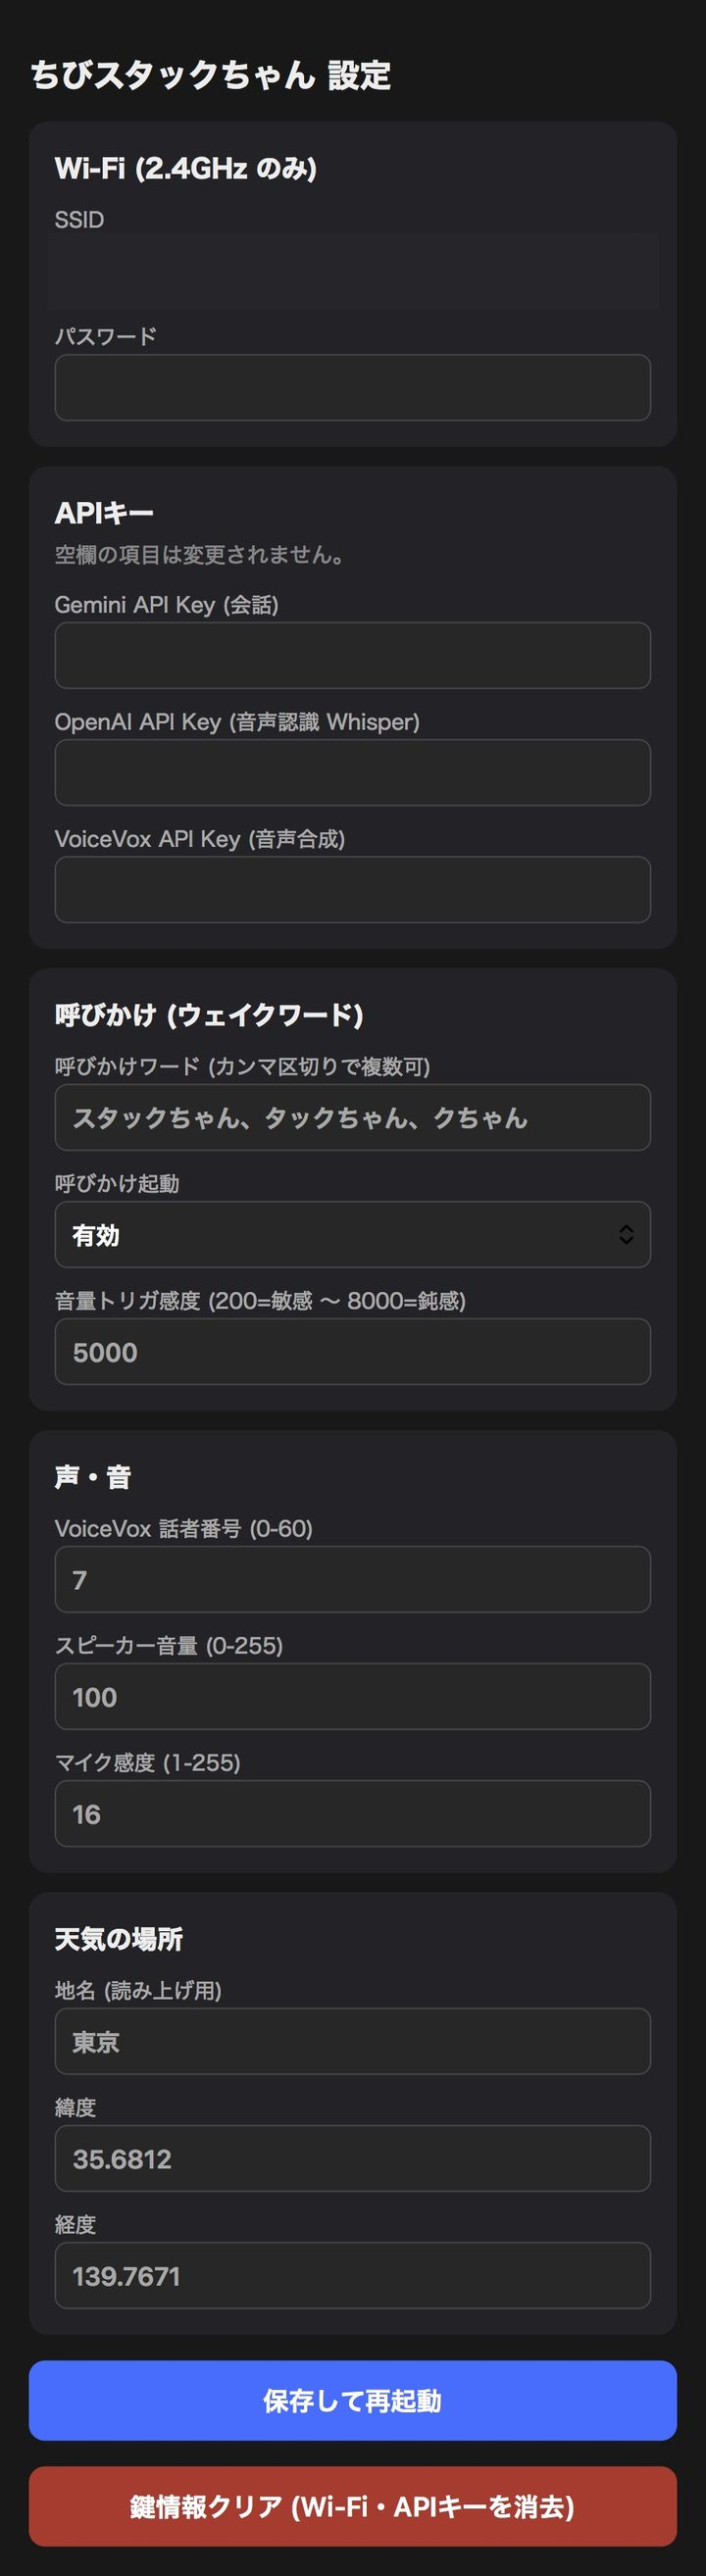
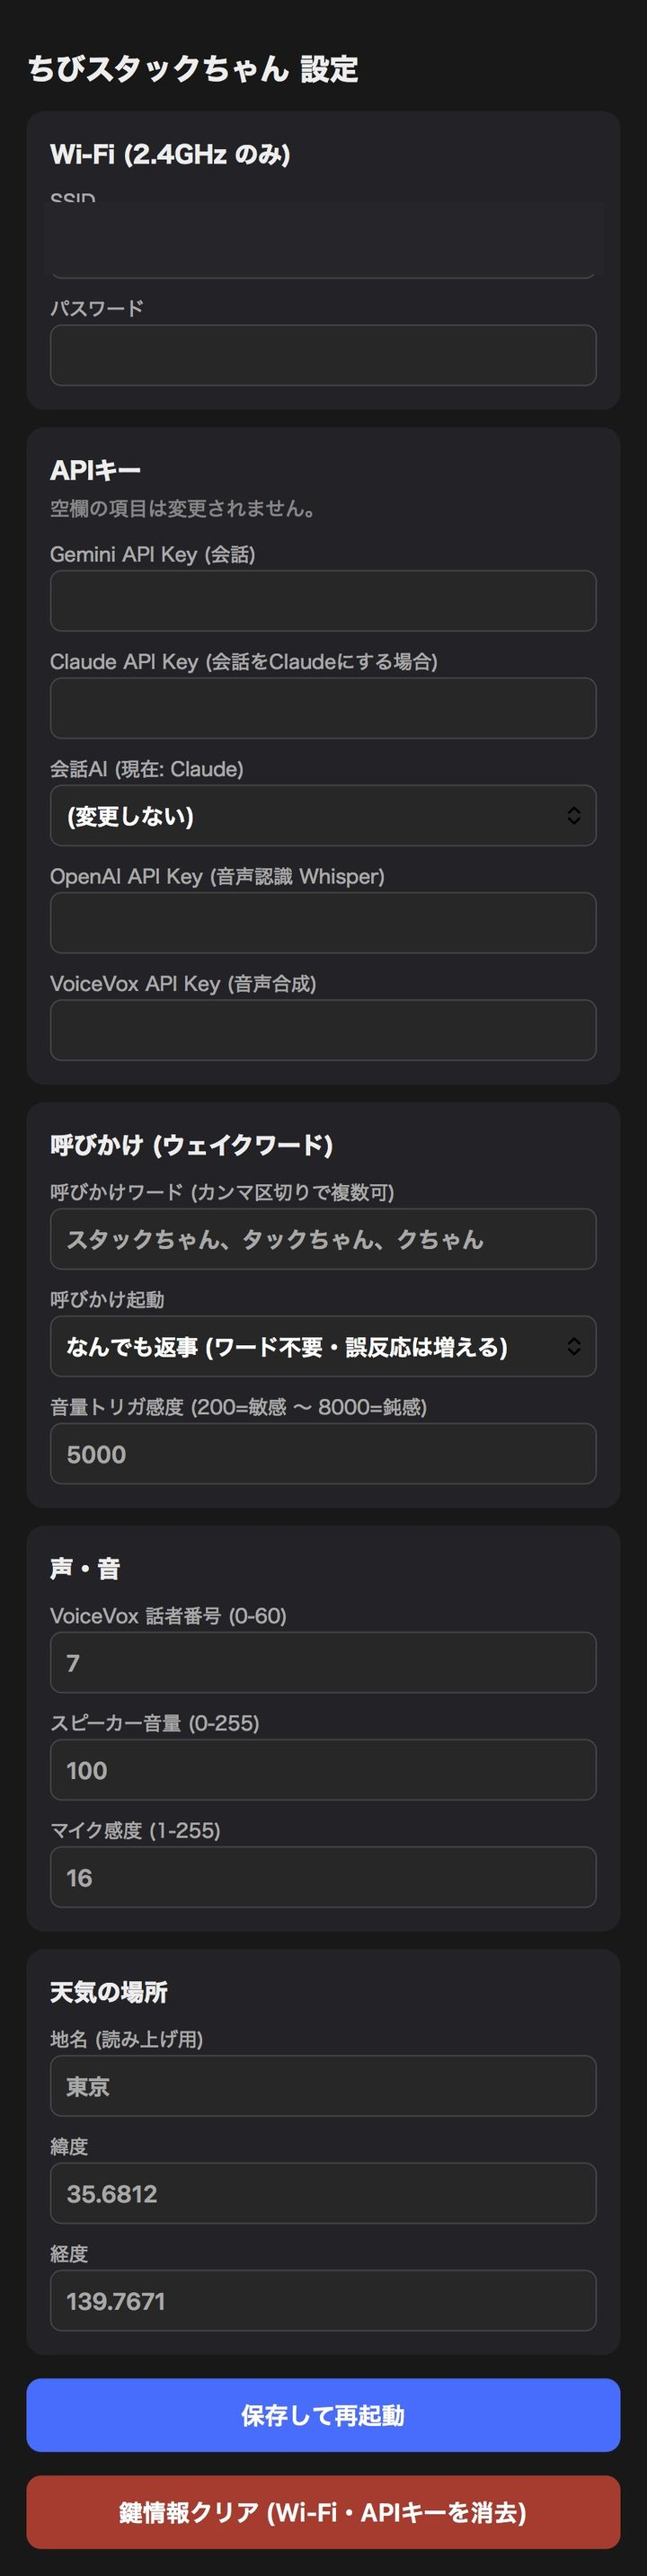
Claude API対応 + 呼びかけ3モード化 + 公開準備 (LICENSE/クレジット整備)
- 会話AIをGemini/Claudeで切り替え可能に (Web UIから設定、モデルはclaude-haiku-4-5)
- api.anthropic.com用ルート証明書を追加 (GTS Root R4/R1、ESP32は中間証明書を
  補完できないためGemini用GlobalSignでは検証不可だった)
- 呼びかけモードを3択に: 呼びかけワード / なんでも返事(ワード不要) / 無効
  (語頭の呼びかけワードが拾えず無視される問題への対策)
- LICENSE追加 (自作部分MIT)、READMEのクレジットを原作者・ライセンス明記の表に刷新
  (Stack-chan/ししかわさん、AI_StackChan2/robo8080さん、ESP8266AudioのGPL-3.0注記)
- READMEにClaude APIセットアップ手順と料金目安を追加、設定画面スクショ更新

diff --git a/src/main.cpp b/src/main.cpp
@@ -31,6 +31,7 @@
 #include <WiFiClientSecure.h>
 #include "rootCACertificate.h"
 #include "rootCAgoogle.h"
+#include "rootCAanthropic.h"
 #include <ArduinoJson.h>
 #include <WebServer.h>
 #include <ESPmDNS.h>
@@ -70,6 +71,8 @@ WebServer server(80);
 
 //---------------------------------------------
 String GEMINI_API_KEY = "";    // Google Gemini (LLM / conversation)
+String CLAUDE_API_KEY = "";    // Anthropic Claude (会話をClaudeにする場合)
+String AI_PROVIDER = "gemini"; // 会話AI: "gemini" | "claude" (Web UIで切り替え)
 String OPENAI_API_KEY = "";    // OpenAI (Whisper speech-to-text)
 String VOICEVOX_API_KEY = "";  // VoiceVox (text-to-speech)
 String CFG_WIFI_SSID = "";
@@ -77,7 +80,9 @@ String CFG_WIFI_PASS = "";
 
 // 呼びかけ (ウェイクワード)。カンマ/読点区切りで複数登録可。
 String WAKE_PHRASE = "スタックちゃん";
-bool   wake_enable = true;
+// 呼びかけモード: 0=無効(画面タッチのみ) 1=呼びかけワードで起動 2=なんでも返事(ワード不要)
+uint8_t wake_mode = 1;
+bool   wake_enable = true;  // wake_mode != 0 の派生値
 int    vad_threshold = 1500;   // 音量トリガのしきい値 (int16 peak, 200-8000)
 
 // 天気の場所 (Web UI で変更可)
@@ -106,6 +111,9 @@ String InitBuffer = "";
 int GEMINI_LAST_HTTP_CODE = 0;
 
 static const char GEMINI_API_URL[] = "https://generativelanguage.googleapis.com/v1beta/models/gemini-3.5-flash:generateContent";
+// Claude Messages API。証明書は rootCAanthropic.h (GTS Root R4/R1) で検証する
+static const char CLAUDE_API_URL[] = "https://api.anthropic.com/v1/messages";
+static const char CLAUDE_MODEL[]   = "claude-haiku-4-5";  // 短い会話用途向けの最安モデル
 
 static const char kBaseChatJson[] = "{\"messages\":[]}";
 static const char kExpressionTagRule[] =
@@ -202,22 +210,34 @@ void loadConfigFromNvs() {
   }
 
   GEMINI_API_KEY   = nvs_get_string("chibi", "gemini");
+  CLAUDE_API_KEY   = nvs_get_string("chibi", "claude");
   OPENAI_API_KEY   = nvs_get_string("chibi", "openai");
   VOICEVOX_API_KEY = nvs_get_string("chibi", "voicevox");
   if (!nofallback) {
     if (GEMINI_API_KEY == "")   GEMINI_API_KEY   = String(GEMINI_APIKEY);
     if (OPENAI_API_KEY == "")   OPENAI_API_KEY   = String(OPENAI_APIKEY);
     if (VOICEVOX_API_KEY == "") VOICEVOX_API_KEY = String(VOICEVOX_APIKEY);
+#ifdef CLAUDE_APIKEY
+    if (CLAUDE_API_KEY == "")   CLAUDE_API_KEY   = String(CLAUDE_APIKEY);
+#endif
   }
+
+  String prov = nvs_get_string("chibi", "provider");
+  if (prov != "") AI_PROVIDER = prov;
+  printf("[AI] provider=%s (claude key %s)\n", AI_PROVIDER.c_str(),
+         CLAUDE_API_KEY == "" ? "未設定" : "設定済み");
 
   String w = nvs_get_string("chibi", "wake");
   if (w != "") WAKE_PHRASE = w;
-  wake_enable = nvs_get_u8_or("chibi", "wake_en", 1) != 0;
+  wake_mode = nvs_get_u8_or("chibi", "wake_en", 1);
+  if (wake_mode > 2) wake_mode = 1;
+  wake_enable = (wake_mode != 0);
   String v = nvs_get_string("chibi", "vad");
   if (v != "") vad_threshold = constrain(v.toInt(), 200, 8000);
   // NOTE: この基板では Serial(HWCDC) の出力がUSBに届かないため printf(IDFコンソール)を使う
-  printf("[WAKE] 呼びかけ起動=%s / 有効ワード=[%s] / VADしきい値=%d\n",
-         wake_enable ? "ON" : "OFF", WAKE_PHRASE.c_str(), vad_threshold);
+  printf("[WAKE] モード=%s / 有効ワード=[%s] / VADしきい値=%d\n",
+         wake_mode == 0 ? "無効" : wake_mode == 2 ? "なんでも返事" : "呼びかけワード",
+         WAKE_PHRASE.c_str(), vad_threshold);
 
   String place = nvs_get_string("chibi", "place");
   if (place != "") WEATHER_PLACE = place;
@@ -254,6 +274,9 @@ static const char CONFIG_HTML[] PROGMEM = R"KEWL(
  <div class="card">
   <b>APIキー</b><br><small>空欄の項目は変更されません。</small>
   <label>Gemini API Key (会話)</label><input id="gemini" name="gemini">
+  <label>Claude API Key (会話をClaudeにする場合)</label><input id="claude" name="claude">
+  <label>会話AI (現在: {{provider}})</label>
+  <select id="provider"><option value="">(変更しない)</option><option value="gemini">Gemini</option><option value="claude">Claude</option></select>
   <label>OpenAI API Key (音声認識 Whisper)</label><input id="openai" name="openai">
   <label>VoiceVox API Key (音声合成)</label><input id="voicevox" name="voicevox">
  </div>
@@ -262,7 +285,7 @@ static const char CONFIG_HTML[] PROGMEM = R"KEWL(
   <label>呼びかけワード (カンマ区切りで複数可)</label>
   <input id="wake" name="wake" placeholder="{{wake}}">
   <label>呼びかけ起動</label>
-  <select id="wake_en"><option value="1" {{wen1}}>有効</option><option value="0" {{wen0}}>無効 (画面タッチのみ)</option></select>
+  <select id="wake_en"><option value="1" {{wen1}}>呼びかけワードで起動</option><option value="2" {{wen2}}>なんでも返事 (ワード不要・誤反応は増える)</option><option value="0" {{wen0}}>無効 (画面タッチのみ)</option></select>
   <label>音量トリガ感度 (200=敏感 〜 8000=鈍感)</label>
   <input id="vad" name="vad" type="number" min="200" max="8000" placeholder="{{vad}}">
  </div>
@@ -285,7 +308,7 @@ static const char CONFIG_HTML[] PROGMEM = R"KEWL(
  function save(e){
   e.preventDefault();
   const f=new FormData();
-  for(const id of ["ssid","pass","gemini","openai","voicevox","wake","wake_en","vad","speaker","volume","mic","place","lat","lon"]){
+  for(const id of ["ssid","pass","gemini","claude","provider","openai","voicevox","wake","wake_en","vad","speaker","volume","mic","place","lat","lon"]){
    const v=document.getElementById(id).value;
    if(v!=="") f.append(id,v);
   }
@@ -341,9 +364,11 @@ void handleNotFound() {
 void handle_config() {
   String html = FPSTR(CONFIG_HTML);
   html.replace("{{ssid}}", CFG_WIFI_SSID == "" ? "(未設定)" : CFG_WIFI_SSID);
+  html.replace("{{provider}}", AI_PROVIDER == "claude" ? "Claude" : "Gemini");
   html.replace("{{wake}}", WAKE_PHRASE);
-  html.replace("{{wen1}}", wake_enable ? "selected" : "");
-  html.replace("{{wen0}}", wake_enable ? "" : "selected");
+  html.replace("{{wen1}}", wake_mode == 1 ? "selected" : "");
+  html.replace("{{wen2}}", wake_mode == 2 ? "selected" : "");
+  html.replace("{{wen0}}", wake_mode == 0 ? "selected" : "");
   html.replace("{{vad}}", String(vad_threshold));
   html.replace("{{speaker}}", TTS_SPEAKER_NO);
   html.replace("{{volume}}", String(M5.Speaker.getVolume()));
@@ -365,10 +390,12 @@ void handle_config_set() {
     nvs_set_string("wifi", "pass", server.arg("pass"));  // 空=オープンネットワーク
   }
   if (server.arg("gemini") != "")   nvs_set_string("chibi", "gemini", server.arg("gemini"));
+  if (server.arg("claude") != "")   nvs_set_string("chibi", "claude", server.arg("claude"));
+  if (server.arg("provider") != "") nvs_set_string("chibi", "provider", server.arg("provider"));
   if (server.arg("openai") != "")   nvs_set_string("chibi", "openai", server.arg("openai"));
   if (server.arg("voicevox") != "") nvs_set_string("chibi", "voicevox", server.arg("voicevox"));
   if (server.arg("wake") != "")     nvs_set_string("chibi", "wake", server.arg("wake"));
-  if (server.arg("wake_en") != "")  nvs_set_u8v("chibi", "wake_en", server.arg("wake_en").toInt() ? 1 : 0);
+  if (server.arg("wake_en") != "")  nvs_set_u8v("chibi", "wake_en", constrain(server.arg("wake_en").toInt(), 0, 2));
   if (server.arg("vad") != "")      nvs_set_string("chibi", "vad", server.arg("vad"));
   if (server.arg("place") != "")    nvs_set_string("chibi", "place", server.arg("place"));
   if (server.arg("lat") != "")      nvs_set_string("chibi", "lat", server.arg("lat"));
@@ -630,6 +657,131 @@ String processTimerTag(String s) {
   return s;
 }
 
+// Claude (Anthropic) 用 HTTPS POST。APIキーはURLではなくヘッダで渡す
+String https_post_json_claude(const char* url, const char* json_string,
+                              const char* root_ca, const char* api_key) {
+  String payload = "";
+  GEMINI_LAST_HTTP_CODE = 0;
+  WiFiClientSecure *client = new WiFiClientSecure;
+  if (client) {
+    client->setCACert(root_ca);
+    {
+      HTTPClient https;
+      https.setTimeout(65000);
+      printf("[HTTPS] Claude begin...\n");
+      if (https.begin(*client, url)) {
+        for (int retry = 0; retry < 3; retry++) {
+          https.addHeader("Content-Type", "application/json");
+          https.addHeader("x-api-key", api_key);
+          https.addHeader("anthropic-version", "2023-06-01");
+          int httpCode = https.POST((uint8_t *)json_string, strlen(json_string));
+          if (httpCode > 0) {
+            GEMINI_LAST_HTTP_CODE = httpCode;
+            printf("[HTTPS] Claude POST code: %d\n", httpCode);
+            if (httpCode == HTTP_CODE_OK) {
+              payload = https.getString();
+              break;
+            }
+            String errorPayload = https.getString();
+            if (errorPayload != "") printf("[HTTPS] error: %s\n", errorPayload.c_str());
+            // 429=レート制限 / 529=過負荷 は少し待ってリトライ
+            if ((httpCode == 429 || httpCode == 529) && retry < 2) {
+              delay(1200 * (retry + 1));
+              continue;
+            }
+            break;
+          } else {
+            printf("[HTTPS] Claude POST failed: %s\n", https.errorToString(httpCode).c_str());
+            break;
+          }
+        }
+        https.end();
+      }
+    }
+    delete client;
+  }
+  return payload;
+}
+
+// chat_doc ({"messages":[{role,content},...]}) から Claude Messages API のリクエストを作る。
+// Claude は system をメッセージ列と別枠で渡す点が Gemini と異なる。
+String buildClaudeRequestFromChatJson(const String& json_string) {
+  DynamicJsonDocument inDoc(1024 * 10);
+  if (deserializeJson(inDoc, json_string) != DeserializationError::Ok) return "";
+  DynamicJsonDocument outDoc(1024 * 12);
+  outDoc["model"] = CLAUDE_MODEL;
+  outDoc["max_tokens"] = 300;  // 返答は60文字程度なので十分
+  JsonArray msgs = outDoc.createNestedArray("messages");
+  for (JsonObject m : inDoc["messages"].as<JsonArray>()) {
+    const char* role = m["role"];
+    const char* content = m["content"];
+    if (!role || !content) continue;
+    if (strcmp(role, "system") == 0) {
+      outDoc["system"] = content;
+    } else {
+      JsonObject o = msgs.createNestedObject();
+      o["role"] = (strcmp(role, "assistant") == 0) ? "assistant" : "user";
+      o["content"] = content;
+    }
+  }
+  if (msgs.size() == 0) return "";
+  String out;
+  serializeJson(outDoc, out);
+  return out;
+}
+
+String chatClaude(String json_string) {
+  String response = "";
+  avatar.setExpression(Expression::Doubt);  // 考え中
+  if (CLAUDE_API_KEY == "") {
+    avatar.setExpression(Expression::Neutral);
+    return "クロードのエーピーアイキーが設定されていません。設定画面から入力してね。";
+  }
+  String req = buildClaudeRequestFromChatJson(json_string);
+  if (req == "") {
+    avatar.setExpression(Expression::Sad);
+    delay(1000);
+    avatar.setExpression(Expression::Neutral);
+    return "エラーです";
+  }
+  String ret = https_post_json_claude(CLAUDE_API_URL, req.c_str(),
+                                      root_ca_anthropic, CLAUDE_API_KEY.c_str());
+  avatar.setExpression(Expression::Neutral);
+  printf("%s\n", ret.c_str());
+  if (ret != "") {
+    DynamicJsonDocument doc(8000);
+    if (deserializeJson(doc, ret.c_str()) != DeserializationError::Ok) {
+      avatar.setExpression(Expression::Sad);
+      response = "エラーです";
+      delay(1000);
+      avatar.setExpression(Expression::Neutral);
+    } else {
+      const char* data = doc["content"][0]["text"];
+      if (data) {
+        response = String(data);
+        std::replace(response.begin(), response.end(), '\n', ' ');
+        g_reply_expression = pickExpression(response);
+        response = stripExpressionTag(response);
+        response = processTimerTag(response);
+      } else {
+        response = "わかりません";
+      }
+    }
+  } else {
+    avatar.setExpression(Expression::Sad);
+    if (GEMINI_LAST_HTTP_CODE == 429 || GEMINI_LAST_HTTP_CODE == 529) {
+      response = "ただいま混み合っています。少し待ってからもう一度話しかけてね。";
+    } else if (GEMINI_LAST_HTTP_CODE == 401 || GEMINI_LAST_HTTP_CODE == 403) {
+      response = "クロードのエーピーアイキーが正しくないみたい。設定を確認してね。";
+    } else {
+      response = "わかりません";
+    }
+    delay(1000);
+    avatar.setExpression(Expression::Neutral);
+  }
+  return response;
+}
+
 String chatGemini(String json_string) {
   String response = "";
   avatar.setExpression(Expression::Doubt);  // 考え中
@@ -792,7 +944,8 @@ String exec_chat(String text) {
   String json_string;
   serializeJson(chat_doc, json_string);
 
-  String response = chatGemini(json_string);
+  String response = (AI_PROVIDER == "claude") ? chatClaude(json_string)
+                                              : chatGemini(json_string);
   speech_text = response;
   chatHistory.push_back(response);
   return response;
@@ -1386,28 +1539,35 @@ void listen_and_chat(bool require_wake) {
     int matchLen = 0;
     int idx = findWakePhrase(ret, &matchLen);
     if (idx < 0) {
-      printf("呼びかけワードなし -> 無視 (有効ワード: [%s])\n", WAKE_PHRASE.c_str());
-      showFaceState(FACE_IDLE);
-      return;
-    }
-    printf("呼びかけ検出: [%s]\n", ret.substring(idx, idx + matchLen).c_str());
-    String rest = stripLeadingPunct(ret.substring(idx + matchLen));
-    if (rest.length() < 6) {  // 呼びかけのみ (日本語2文字未満) -> 聞き返す
-      g_reply_expression = Expression::Happy;
-      avatar.setExpression(Expression::Happy);
-      showFaceState(FACE_IDLE);
-      speakBlocking("なあに？");
-      ret = SpeechToText();
-      if (ret == "" || isWhisperHallucination(ret)) {
+      if (wake_mode != 2) {
+        printf("呼びかけワードなし -> 無視 (有効ワード: [%s])\n", WAKE_PHRASE.c_str());
         showFaceState(FACE_IDLE);
-        avatar.setExpression(Expression::Sad);
-        delay(1500);
-        avatar.setExpression(Expression::Neutral);
         return;
       }
-      printf("音声認識結果(2): %s\n", ret.c_str());
-    } else {
-      ret = rest;
+      // なんでも返事モード: ワードが無くても認識テキスト全体を質問として扱う
+      printf("呼びかけワードなし -> なんでも返事モードで続行\n");
+      idx = -1;
+    }
+    if (idx >= 0) {  // 呼びかけワードが見つかった場合はワード部分を除去
+      printf("呼びかけ検出: [%s]\n", ret.substring(idx, idx + matchLen).c_str());
+      String rest = stripLeadingPunct(ret.substring(idx + matchLen));
+      if (rest.length() < 6) {  // 呼びかけのみ (日本語2文字未満) -> 聞き返す
+        g_reply_expression = Expression::Happy;
+        avatar.setExpression(Expression::Happy);
+        showFaceState(FACE_IDLE);
+        speakBlocking("なあに？");
+        ret = SpeechToText();
+        if (ret == "" || isWhisperHallucination(ret)) {
+          showFaceState(FACE_IDLE);
+          avatar.setExpression(Expression::Sad);
+          delay(1500);
+          avatar.setExpression(Expression::Neutral);
+          return;
+        }
+        printf("音声認識結果(2): %s\n", ret.c_str());
+      } else {
+        ret = rest;
+      }
     }
   }
 

diff --git a/src/rootCAanthropic.h b/src/rootCAanthropic.h
@@ -1,0 +1,51 @@
+// api.anthropic.com 用ルート証明書 (Google Trust Services)
+// GTS Root R4 (ECC) + GTS Root R1 (RSA) の2本立て。どちらも 2036-06-22 まで有効。
+// 取得元: https://i.pki.goog/r4.pem / https://i.pki.goog/r1.pem
+#pragma once
+
+const char* root_ca_anthropic = \
+"-----BEGIN CERTIFICATE-----\n" \
+"MIICCTCCAY6gAwIBAgINAgPlwGjvYxqccpBQUjAKBggqhkjOPQQDAzBHMQswCQYD\n" \
+"VQQGEwJVUzEiMCAGA1UEChMZR29vZ2xlIFRydXN0IFNlcnZpY2VzIExMQzEUMBIG\n" \
+"A1UEAxMLR1RTIFJvb3QgUjQwHhcNMTYwNjIyMDAwMDAwWhcNMzYwNjIyMDAwMDAw\n" \
+"WjBHMQswCQYDVQQGEwJVUzEiMCAGA1UEChMZR29vZ2xlIFRydXN0IFNlcnZpY2Vz\n" \
+"IExMQzEUMBIGA1UEAxMLR1RTIFJvb3QgUjQwdjAQBgcqhkjOPQIBBgUrgQQAIgNi\n" \
+"AATzdHOnaItgrkO4NcWBMHtLSZ37wWHO5t5GvWvVYRg1rkDdc/eJkTBa6zzuhXyi\n" \
+"QHY7qca4R9gq55KRanPpsXI5nymfopjTX15YhmUPoYRlBtHci8nHc8iMai/lxKvR\n" \
+"HYqjQjBAMA4GA1UdDwEB/wQEAwIBhjAPBgNVHRMBAf8EBTADAQH/MB0GA1UdDgQW\n" \
+"BBSATNbrdP9JNqPV2Py1PsVq8JQdjDAKBggqhkjOPQQDAwNpADBmAjEA6ED/g94D\n" \
+"9J+uHXqnLrmvT/aDHQ4thQEd0dlq7A/Cr8deVl5c1RxYIigL9zC2L7F8AjEA8GE8\n" \
+"p/SgguMh1YQdc4acLa/KNJvxn7kjNuK8YAOdgLOaVsjh4rsUecrNIdSUtUlD\n" \
+"-----END CERTIFICATE-----\n" \
+"-----BEGIN CERTIFICATE-----\n" \
+"MIIFVzCCAz+gAwIBAgINAgPlk28xsBNJiGuiFzANBgkqhkiG9w0BAQwFADBHMQsw\n" \
+"CQYDVQQGEwJVUzEiMCAGA1UEChMZR29vZ2xlIFRydXN0IFNlcnZpY2VzIExMQzEU\n" \
+"MBIGA1UEAxMLR1RTIFJvb3QgUjEwHhcNMTYwNjIyMDAwMDAwWhcNMzYwNjIyMDAw\n" \
+"MDAwWjBHMQswCQYDVQQGEwJVUzEiMCAGA1UEChMZR29vZ2xlIFRydXN0IFNlcnZp\n" \
+"Y2VzIExMQzEUMBIGA1UEAxMLR1RTIFJvb3QgUjEwggIiMA0GCSqGSIb3DQEBAQUA\n" \
+"A4ICDwAwggIKAoICAQC2EQKLHuOhd5s73L+UPreVp0A8of2C+X0yBoJx9vaMf/vo\n" \
+"27xqLpeXo4xL+Sv2sfnOhB2x+cWX3u+58qPpvBKJXqeqUqv4IyfLpLGcY9vXmX7w\n" \
+"Cl7raKb0xlpHDU0QM+NOsROjyBhsS+z8CZDfnWQpJSMHobTSPS5g4M/SCYe7zUjw\n" \
+"TcLCeoiKu7rPWRnWr4+wB7CeMfGCwcDfLqZtbBkOtdh+JhpFAz2weaSUKK0Pfybl\n" \
+"qAj+lug8aJRT7oM6iCsVlgmy4HqMLnXWnOunVmSPlk9orj2XwoSPwLxAwAtcvfaH\n" \
+"szVsrBhQf4TgTM2S0yDpM7xSma8ytSmzJSq0SPly4cpk9+aCEI3oncKKiPo4Zor8\n" \
+"Y/kB+Xj9e1x3+naH+uzfsQ55lVe0vSbv1gHR6xYKu44LtcXFilWr06zqkUspzBmk\n" \
+"MiVOKvFlRNACzqrOSbTqn3yDsEB750Orp2yjj32JgfpMpf/VjsPOS+C12LOORc92\n" \
+"wO1AK/1TD7Cn1TsNsYqiA94xrcx36m97PtbfkSIS5r762DL8EGMUUXLeXdYWk70p\n" \
+"aDPvOmbsB4om3xPXV2V4J95eSRQAogB/mqghtqmxlbCluQ0WEdrHbEg8QOB+DVrN\n" \
+"VjzRlwW5y0vtOUucxD/SVRNuJLDWcfr0wbrM7Rv1/oFB2ACYPTrIrnqYNxgFlQID\n" \
+"AQABo0IwQDAOBgNVHQ8BAf8EBAMCAYYwDwYDVR0TAQH/BAUwAwEB/zAdBgNVHQ4E\n" \
+"FgQU5K8rJnEaK0gnhS9SZizv8IkTcT4wDQYJKoZIhvcNAQEMBQADggIBAJ+qQibb\n" \
+"C5u+/x6Wki4+omVKapi6Ist9wTrYggoGxval3sBOh2Z5ofmmWJyq+bXmYOfg6LEe\n" \
+"QkEzCzc9zolwFcq1JKjPa7XSQCGYzyI0zzvFIoTgxQ6KfF2I5DUkzps+GlQebtuy\n" \
+"h6f88/qBVRRiClmpIgUxPoLW7ttXNLwzldMXG+gnoot7TiYaelpkttGsN/H9oPM4\n" \
+"7HLwEXWdyzRSjeZ2axfG34arJ45JK3VmgRAhpuo+9K4l/3wV3s6MJT/KYnAK9y8J\n" \
+"ZgfIPxz88NtFMN9iiMG1D53Dn0reWVlHxYciNuaCp+0KueIHoI17eko8cdLiA6Ef\n" \
+"MgfdG+RCzgwARWGAtQsgWSl4vflVy2PFPEz0tv/bal8xa5meLMFrUKTX5hgUvYU/\n" \
+"Z6tGn6D/Qqc6f1zLXbBwHSs09dR2CQzreExZBfMzQsNhFRAbd03OIozUhfJFfbdT\n" \
+"6u9AWpQKXCBfTkBdYiJ23//OYb2MI3jSNwLgjt7RETeJ9r/tSQdirpLsQBqvFAnZ\n" \
+"0E6yove+7u7Y/9waLd64NnHi/Hm3lCXRSHNboTXns5lndcEZOitHTtNCjv0xyBZm\n" \
+"2tIMPNuzjsmhDYAPexZ3FL//2wmUspO8IFgV6dtxQ/PeEMMA3KgqlbbC1j+Qa3bb\n" \
+"bP6MvPJwNQzcmRk13NfIRmPVNnGuV/u3gm3c\n" \
+"-----END CERTIFICATE-----\n"
+;